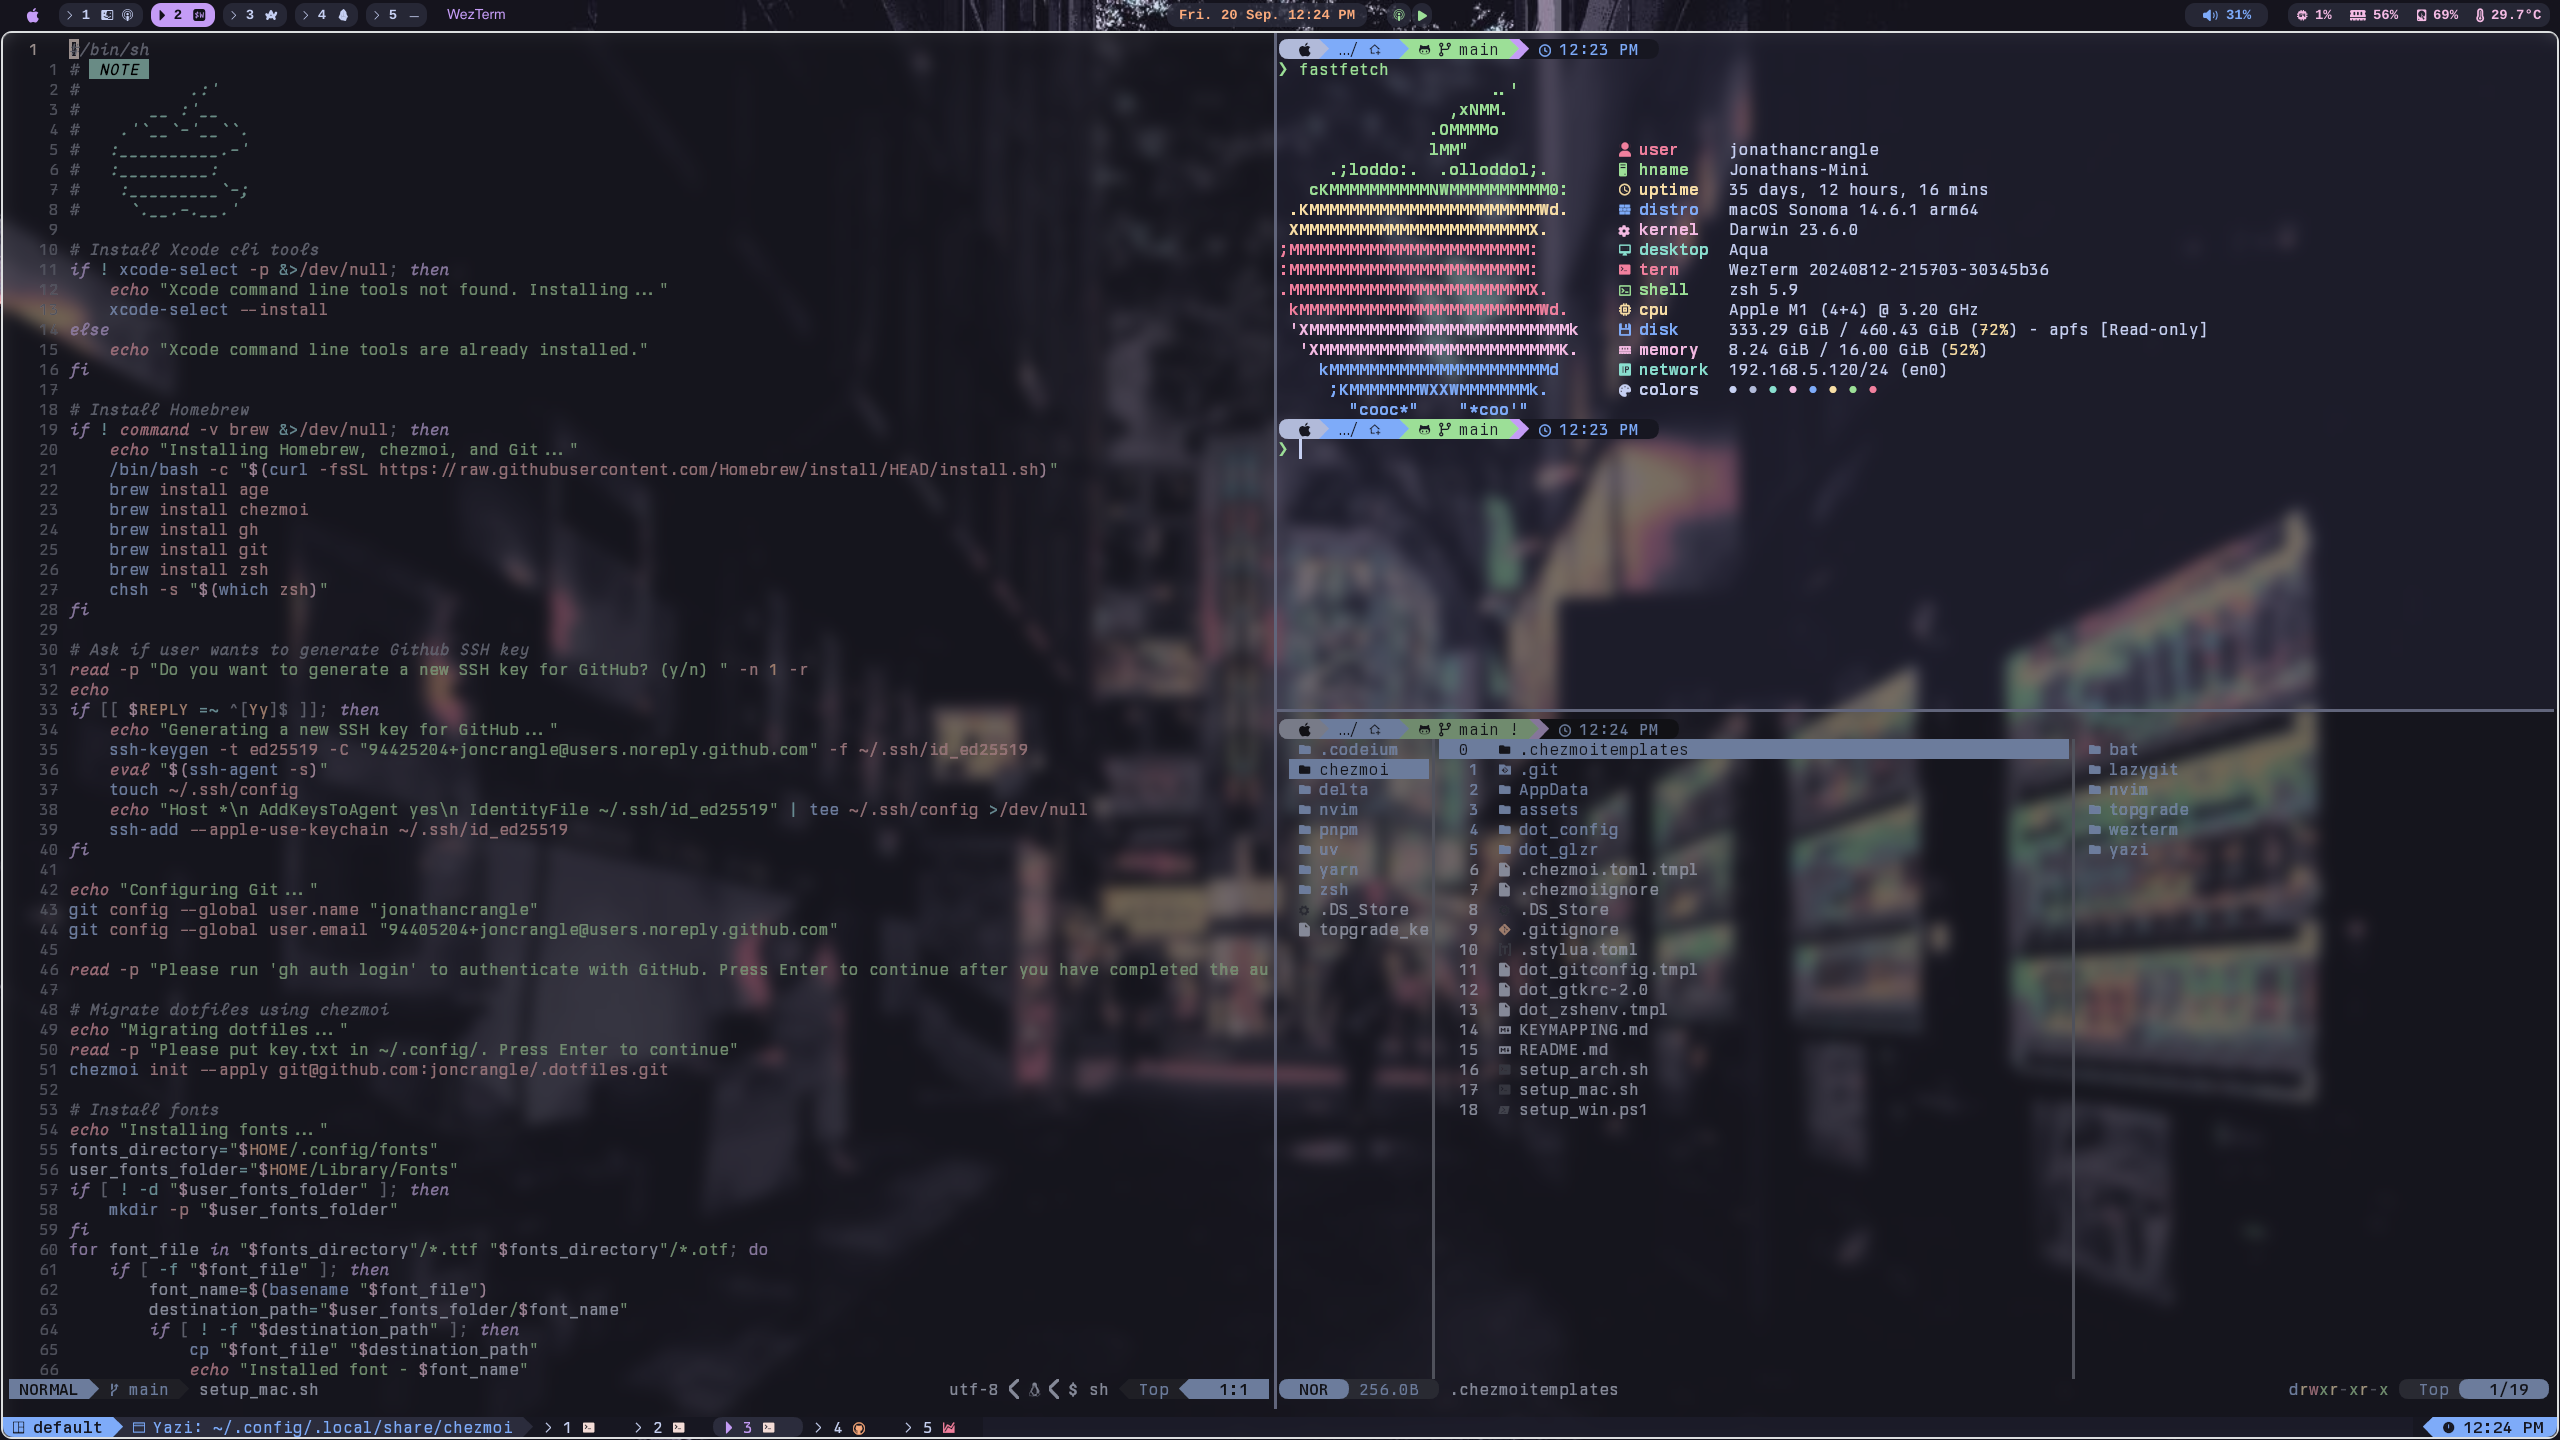
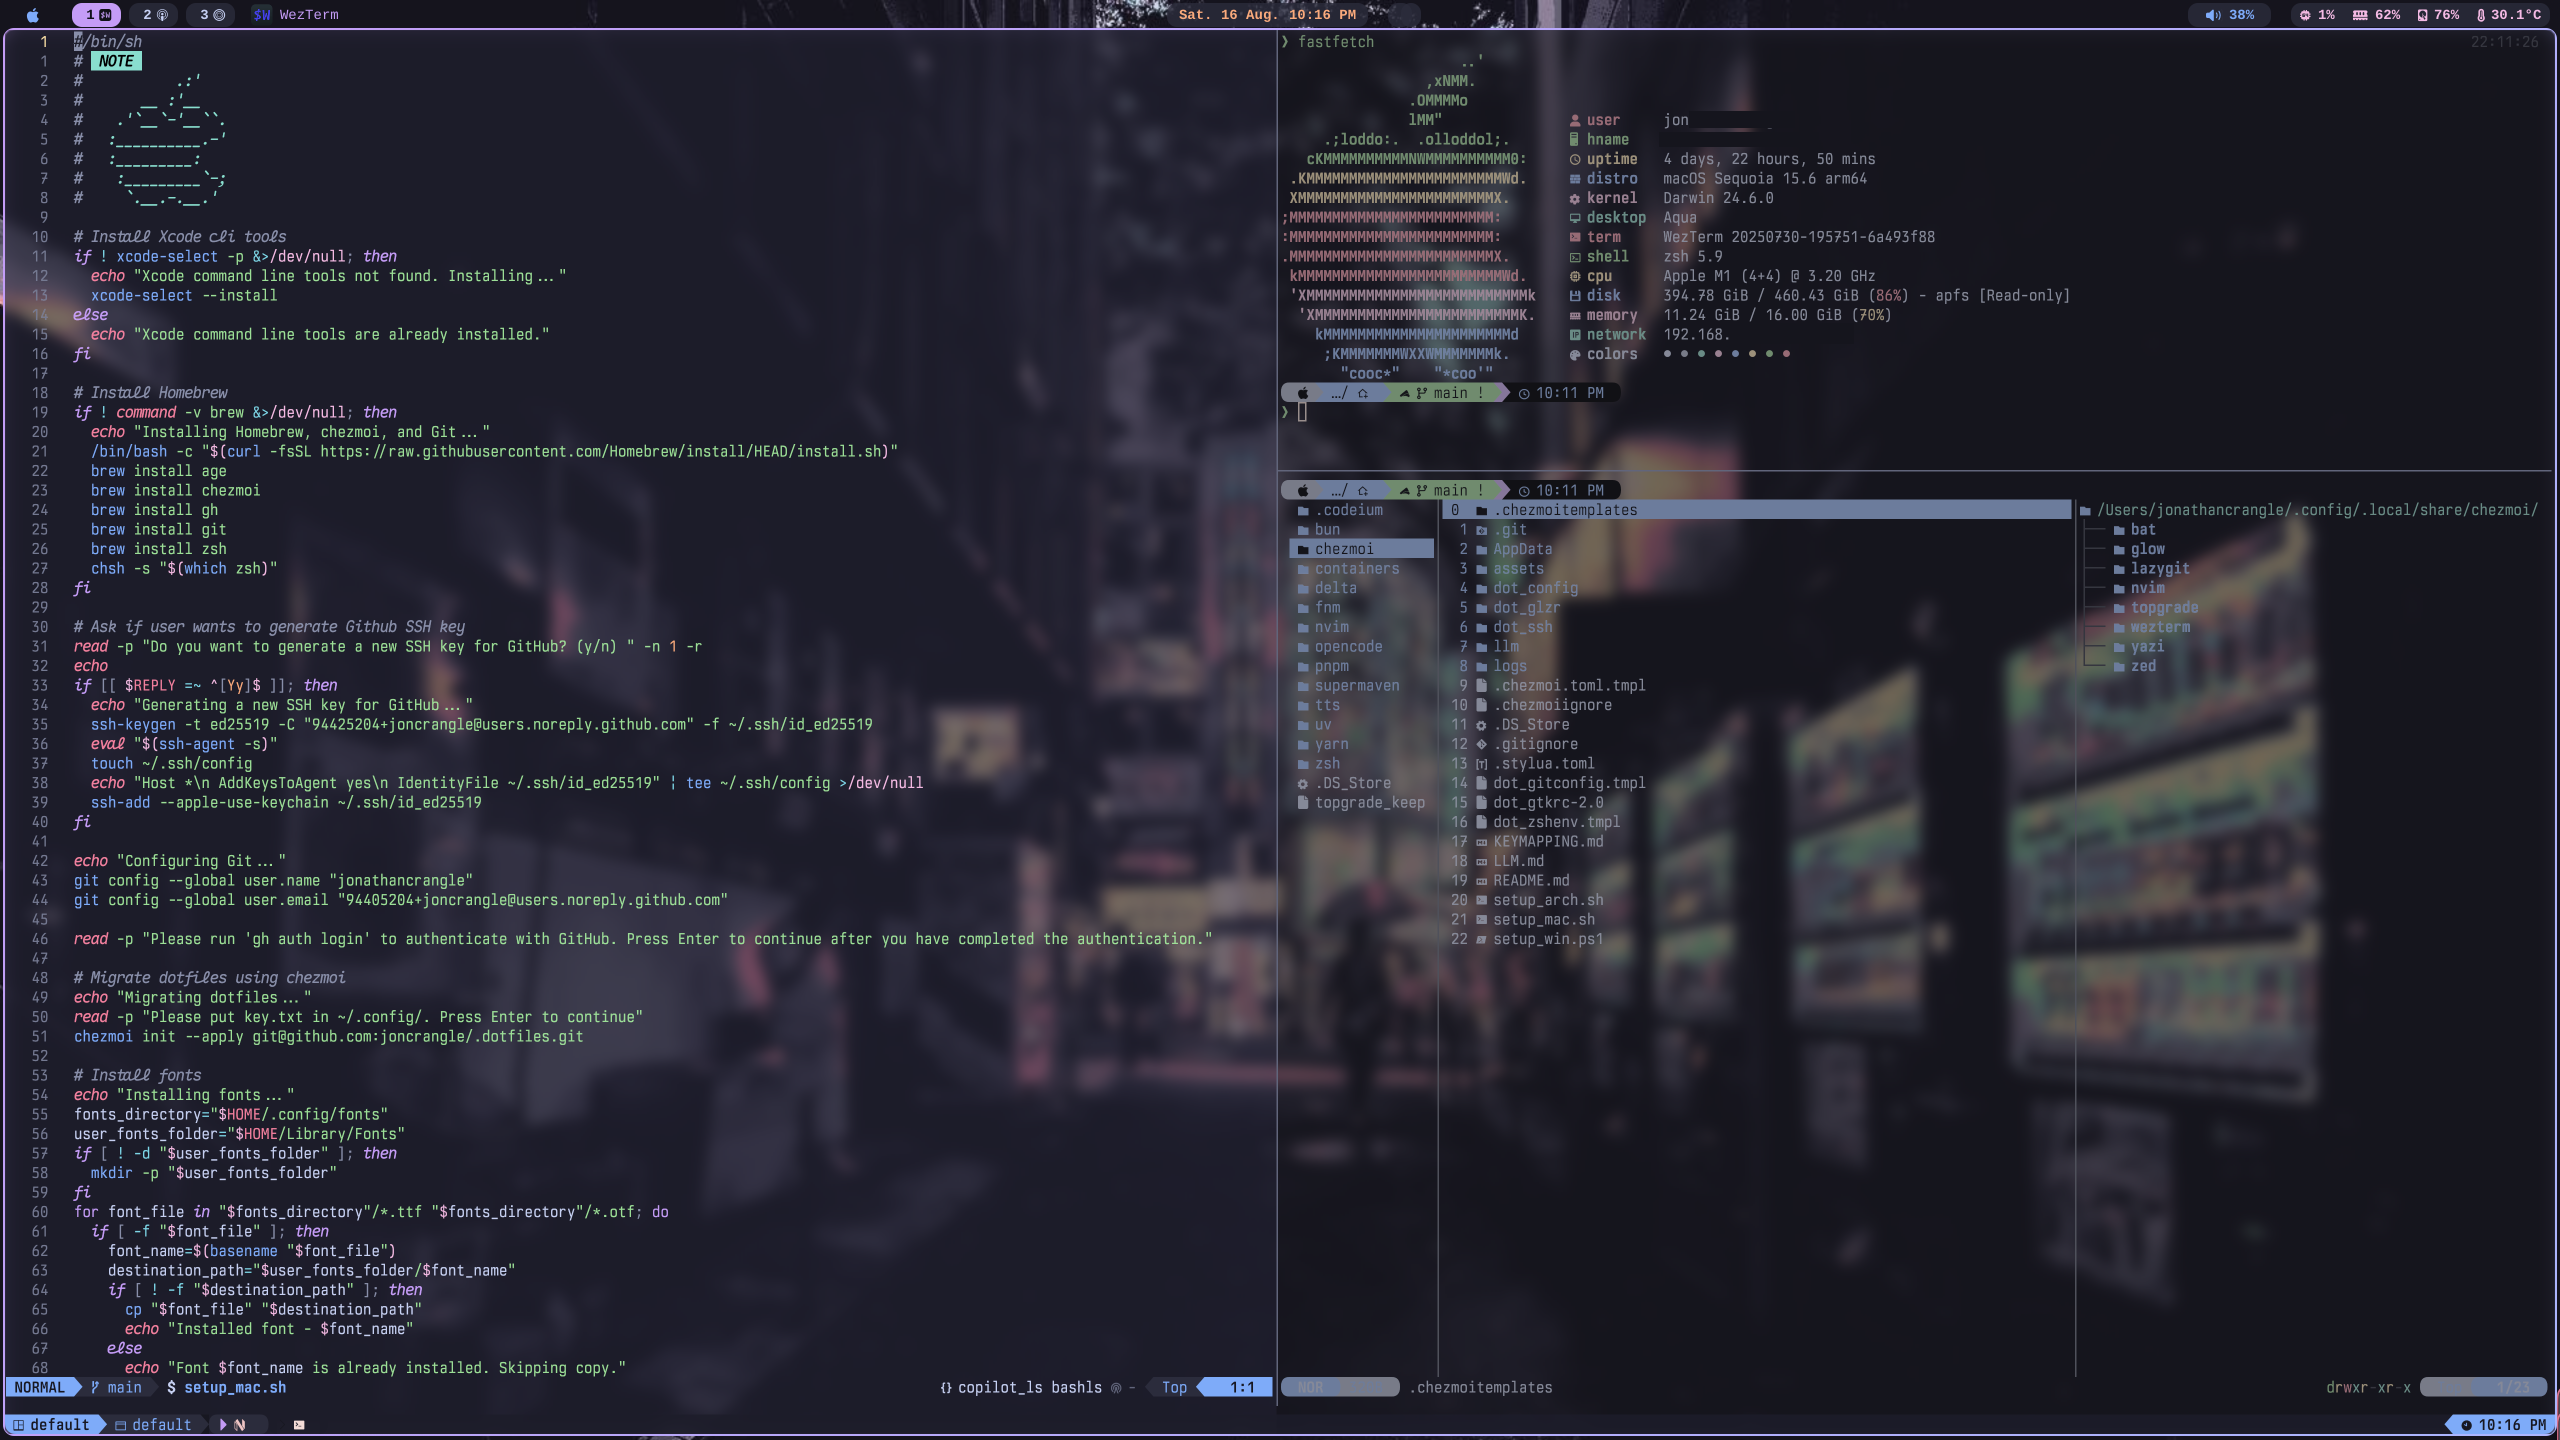
Update switch to aerospace

diff --git a/README.md b/README.md
@@ -34,8 +34,7 @@ Features include:
 
 **MacOS**
 
-- [Yabai](https://github.com/koekeishiya/yabai) window manager
-- [skhd](https://github.com/koekeishiya/skhd) keyboard shortcuts
+- [Aerospace](https://nikitabobko.github.io/AeroSpace/guide) window manager
 - [SketchyBar](https://github.com/FelixKratz/SketchyBar) bar
 - [JankyBorders](https://github.com/FelixKratz/JankyBorders) border styling
 - [Raycast](https://www.raycast.com/) launcher
@@ -64,32 +63,13 @@ Features include:
 
 ### 🍎 MacOS
 
-1. Disable system integrity protection. [Yabai instructions](https://github.com/koekeishiya/yabai/wiki/Disabling-System-Integrity-Protection)
+1. Remove mission control shortcuts. Open `System Settings` -> `Keyboard` -> `Keyboard Shortcuts`. Disable the `Mission Control` shortcuts, including `⌘` + `#` to switch between workspaces.
 
-    - Turn off system. Hold power button until "Loading startup options" appears. Click "Options" then click "Continue"
-    - In the menu bar, choose `Utilities`, then `Terminal`
+2. Open `System Settings` -> `Privacy & Security` -> `Accessibility`. Click the + button at the bottom left of the list view and enter your password to allow changes to the list.
 
-    ```zsh
-    # If you're on Apple Silicon macOS 13.x.x
-    # Requires Filesystem Protections, Debugging Restrictions and NVRAM Protection to be disabled
-    # (printed warning can be safely ignored)
-    csrutil enable --without fs --without debug --without nvram
-    ```
+3. Give `Terminal` full disk access through `Security & Privacy` -> `Privacy` -> `Full Disk Access`.
 
-    - Reboot. For Apple Silicon, need to enable non-Apple-signed arm64e binaries.
-
-    ```zsh
-    # Open a terminal and run the below command, then reboot
-    sudo nvram boot-args=-arm64e_preview_abi
-    ```
-
-2. Create 5 workspaces. Open `System Settings` -> `Keyboard` -> `Keyboard Shortcuts`. Enable the `Mission Control` shortcuts, including `⌘` + `#` and `⌃` + `<-` / `->` to to switch between workspaces.
-
-3. Open `System Settings` -> `Privacy & Security` -> `Accessibility`. Click the + button at the bottom left of the list view and enter your password to allow changes to the list.
-
-4. Give `Terminal` full disk access through `Security & Privacy` -> `Privacy` -> `Full Disk Access`.
-
-5. Download and run the [setup_mac.sh](https://github.com/joncrangle/.dotfiles/raw/main/setup_mac.sh) shell script.
+4. Download and run the [setup_mac.sh](https://github.com/joncrangle/.dotfiles/raw/main/setup_mac.sh) shell script.
 
 ```zsh
 curl -L https://raw.githubusercontent.com/joncrangle/.dotfiles/main/setup_mac.sh | sh
@@ -102,13 +82,13 @@ curl -L https://raw.githubusercontent.com/joncrangle/.dotfiles/main/setup_mac.sh
 > chmod +x setup_mac.sh
 > ```
 
-6. The macOS setup process will begin by installing [Homebrew](https://brew.sh/), [chezmoi](https://chezmoi.io/), and Git.
+5. The macOS setup process will begin by installing [Homebrew](https://brew.sh/), [chezmoi](https://chezmoi.io/), and Git.
 
-7. Setup will walk you through authenticating with Github. It will then install the dotfiles and apps.
+6. Setup will walk you through authenticating with Github. It will then install the dotfiles and apps.
 
-8. Give `WezTerm` full disk access through `Security & Privacy` -> `Privacy` -> `Full Disk Access`. Hide the menu bar in `System Settings` -> `Control Center` -> Automatically hide and show the menu bar -> Always.
+7. Give `WezTerm` full disk access through `Security & Privacy` -> `Privacy` -> `Full Disk Access`. Hide the menu bar in `System Settings` -> `Control Center` -> Automatically hide and show the menu bar -> Always.
 
-9. Give `Yabai`, `Wezterm`, `skhd` accessibility permissions in `System Preferences` -> `Security & Privacy` -> `Accessibility`.
+8. Give `Aerospace`, `Wezterm`, `skhd` accessibility permissions in `System Preferences` -> `Security & Privacy` -> `Accessibility`.
 
 10. Launch the `Shortcuts` app. Create a shortcut called "playpause" with "Play/Pause" from the "Media" category. This shortcut will be used by the bar for playback control.
 
